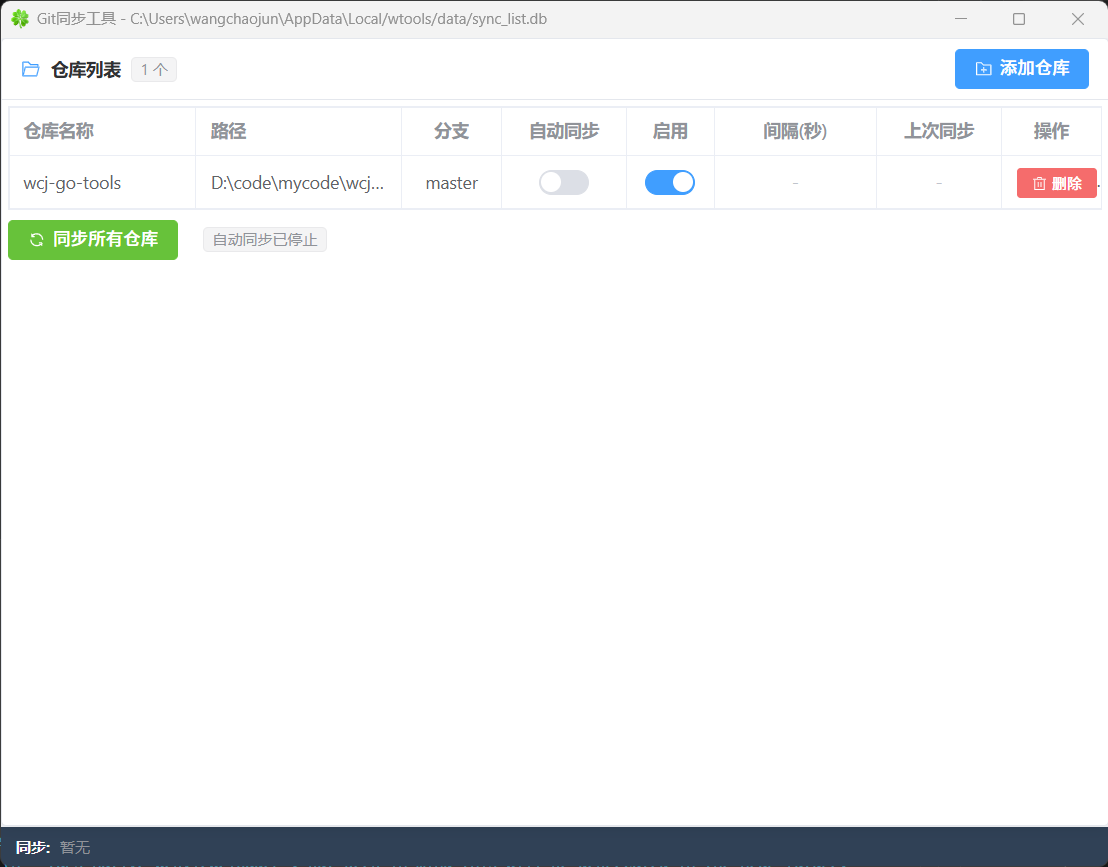
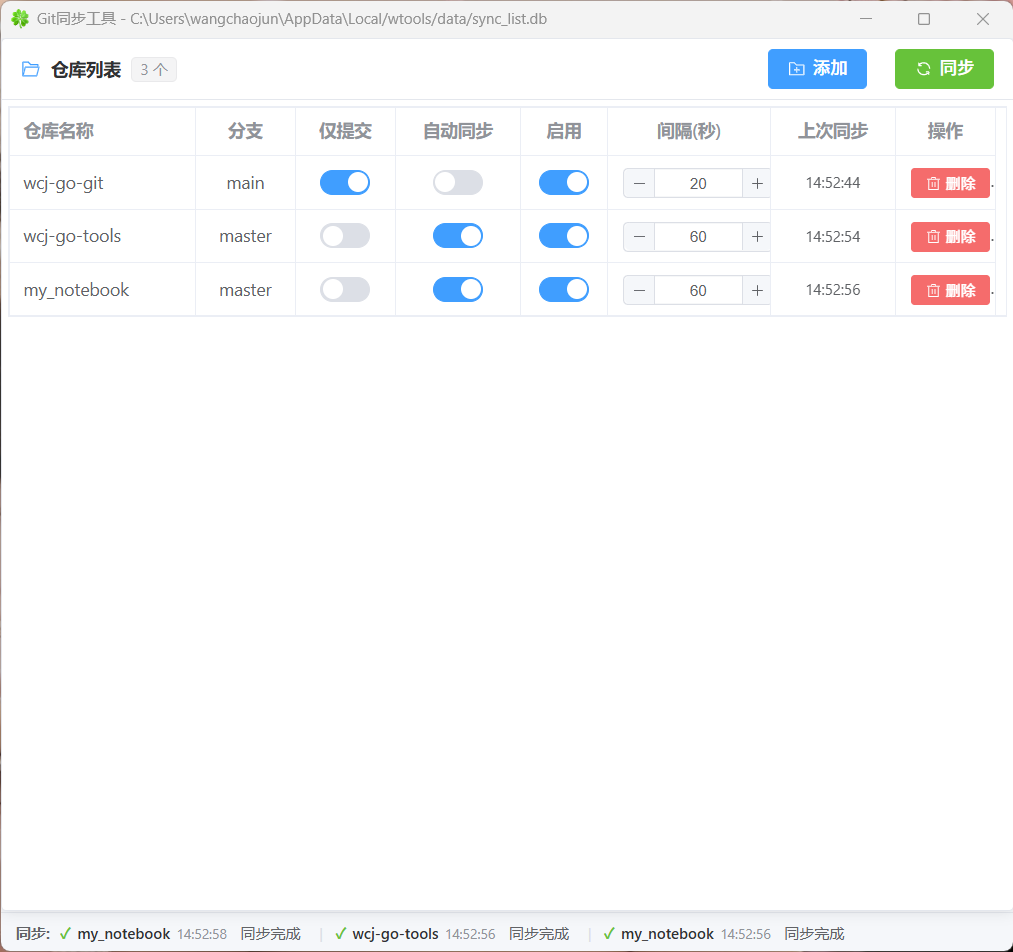
Sync: 2026-04-15 16:15:46

diff --git a/main.go b/main.go
@@ -8,6 +8,7 @@ import (
 	"path/filepath"
 	"syscall"
 	"time"
+
 	"wcj-go-common/core"
 	myUtil "wcj-go-common/utils"
 
@@ -125,6 +126,7 @@ func main() {
 		Height:            height,
 		Frameless:         false,
 		HideWindowOnClose: true,
+		StartHidden:       isHiddenStart(),
 		AssetServer: &assetserver.Options{
 			Assets: assets,
 		},
@@ -143,10 +145,6 @@ func main() {
 			// 如果窗口之前是最大化状态，恢复最大化
 			if ws.Maximized == 1 {
 				runtime.WindowMaximise(ctx)
-			}
-			// 如果带 --hidden 或 -h 参数启动，则隐藏窗口
-			if isHiddenStart() {
-				runtime.WindowHide(ctx)
 			}
 		},
 		OnShutdown: application.Shutdown,

diff --git a/README.md b/README.md
@@ -8,11 +8,14 @@
 
 ## 功能特性
 
-- **多仓库管理** - 添加、删除、启用/禁用 Git 仓库
+- **多仓库管理** - 添加、删除、启用/禁用 Git 仓库，支持拖拽文件夹添加
 - **一键同步** - 对多个仓库执行 `git add` → `git commit` → `git pull` → `git push` 全流程
 - **自动同步** - 支持为每个仓库设置独立的自动同步间隔（最小 10 秒）
+- **仅提交模式** - 支持仅提交不推送，适合内部仓库
 - **同步日志** - 记录每次同步的详细信息（commit、pull、push 输出）
-- **窗口状态记忆** - 自动保存窗口大小和位置
+- **窗口状态记忆** - 自动保存窗口大小、位置和最大化状态
+- **后台自动同步** - 程序启动时自动开始后台同步任务
+- **单实例运行** - 防止重复启动，新实例启动时激活已有窗口
 - **跨平台** - 基于 Wails 构建，支持 Windows、macOS、Linux
 
 ---
@@ -97,20 +100,27 @@ wails dev
 
 ```
 wcj-go-git/
-├── main.go              # 应用入口
-├── app/
-│   └── app.go           # 后端核心逻辑（Git同步、数据库操作）
-├── golang/
-│   ├── cmdWrapper/      # 命令行封装
-│   └── utils/           # 工具函数（Git操作、URL打开等）
+├── main.go              # 应用入口（窗口管理、单实例、DPI处理）
+├── app.go               # 后端核心逻辑（Git同步、数据库操作、自动同步）
+├── utils.go             # 命令行封装（git操作、URL打开等）
 ├── frontend/
 │   └── src/
 │       ├── pages/
-│       │   └── gitSync.vue    # 主界面
+│       │   └── gitSync.vue    # 主界面（Vue 3 + Element Plus）
 │       └── wailsjs/           # Wails 生成的 JS 绑定
 ├── wails.json           # Wails 配置
 └── go.mod               # Go 模块定义
 ```
+
+---
+
+## 使用说明
+
+1. **添加仓库** - 点击"添加"按钮选择 Git 仓库文件夹，或直接拖拽文件夹到窗口
+2. **配置仓库** - 可设置启用/禁用、自动同步、同步间隔、仅提交模式
+3. **手动同步** - 点击"同步"按钮对所有已启用仓库执行同步
+4. **查看结果** - 同步结果区域显示每个仓库的 commit、pull、push 日志
+5. **状态栏** - 底部状态栏实时显示最新同步状态
 
 ---
 
